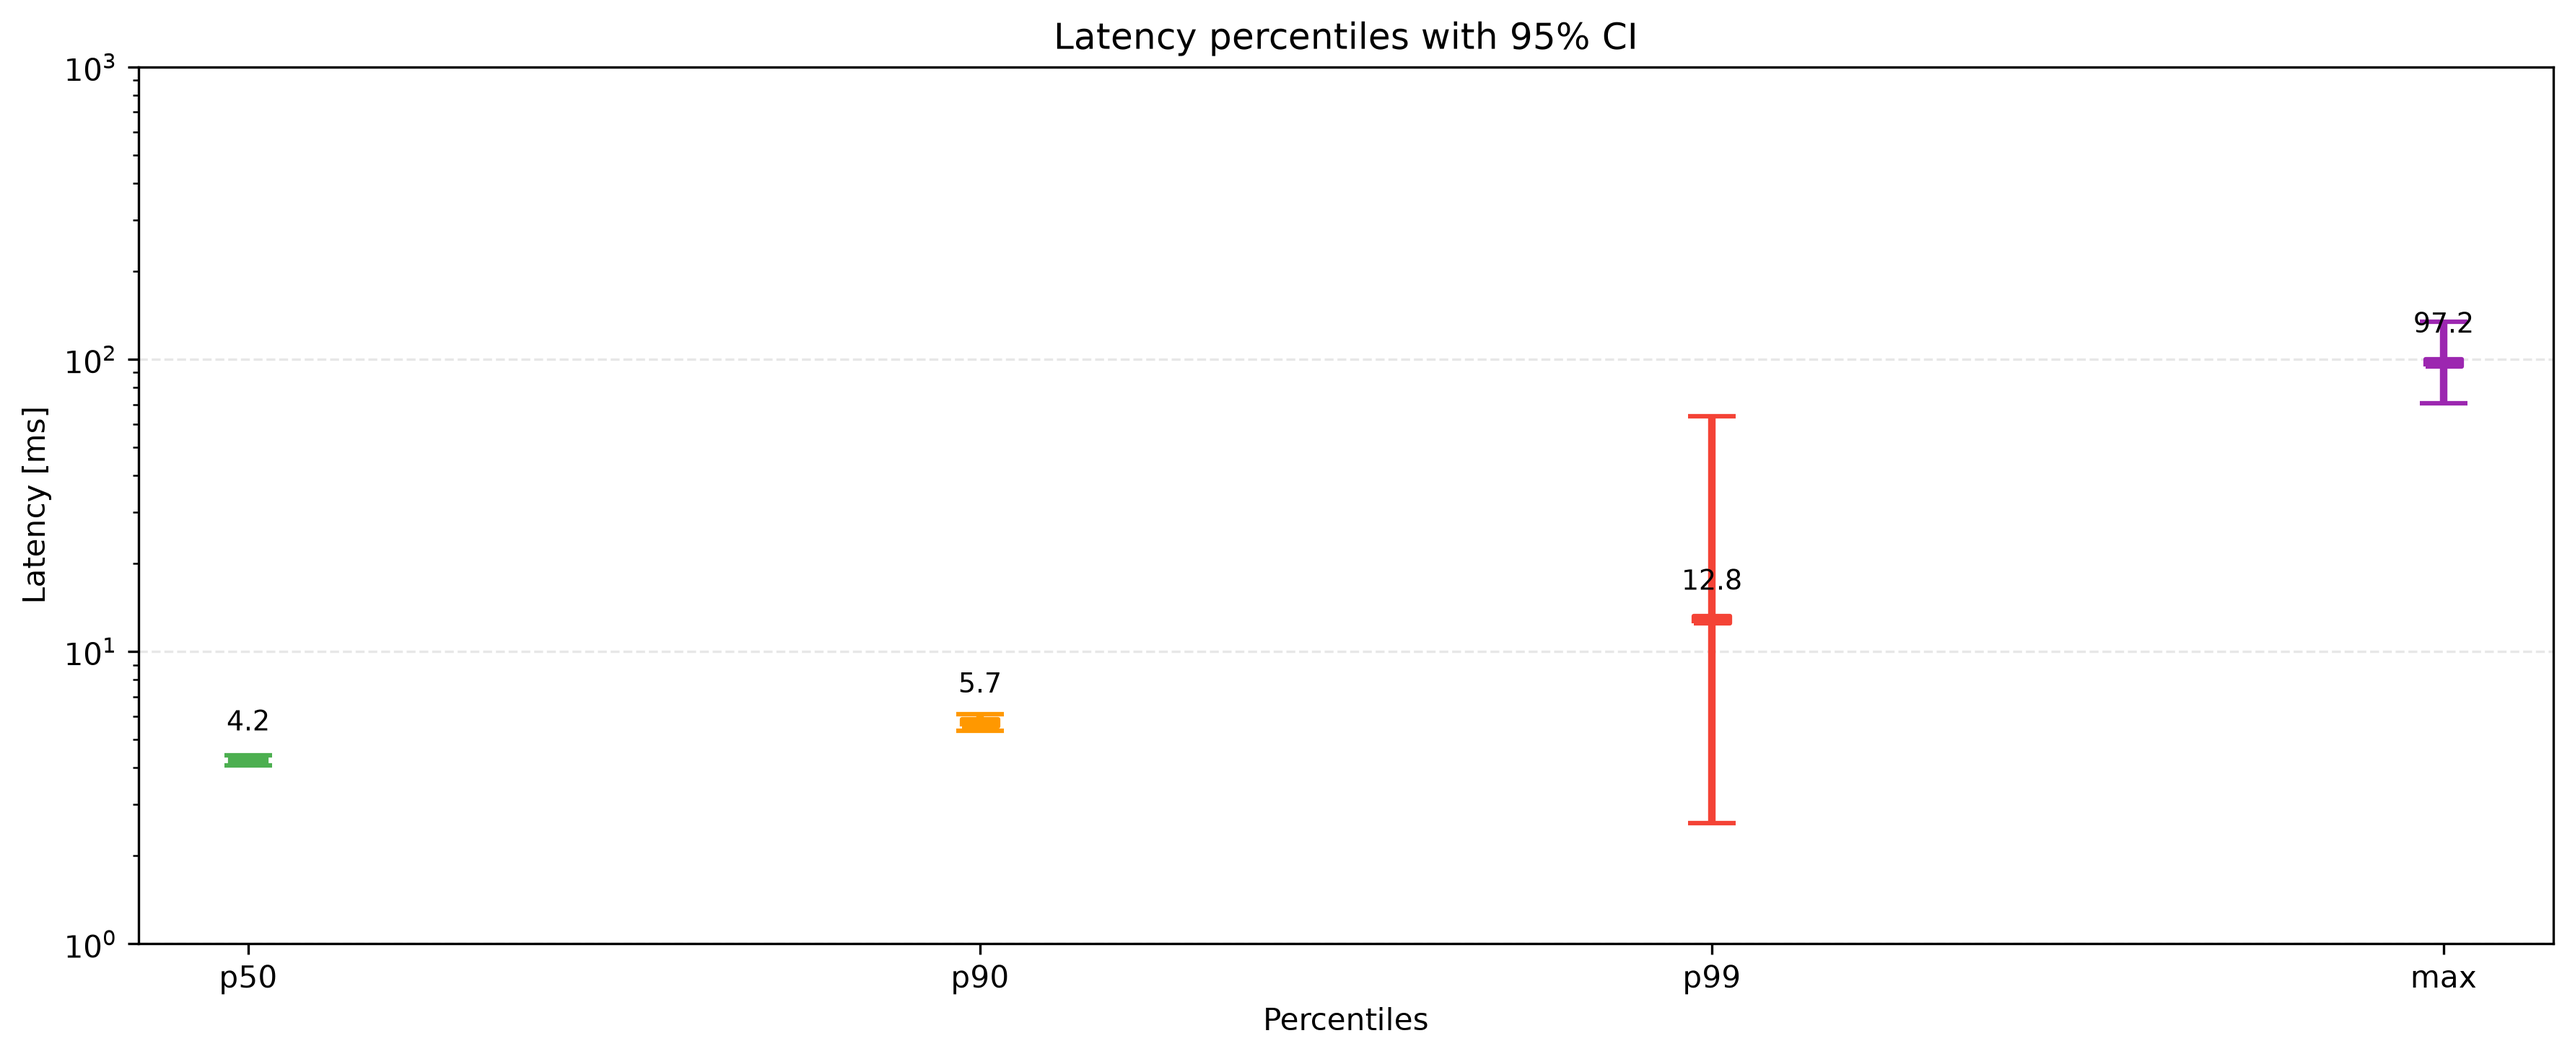
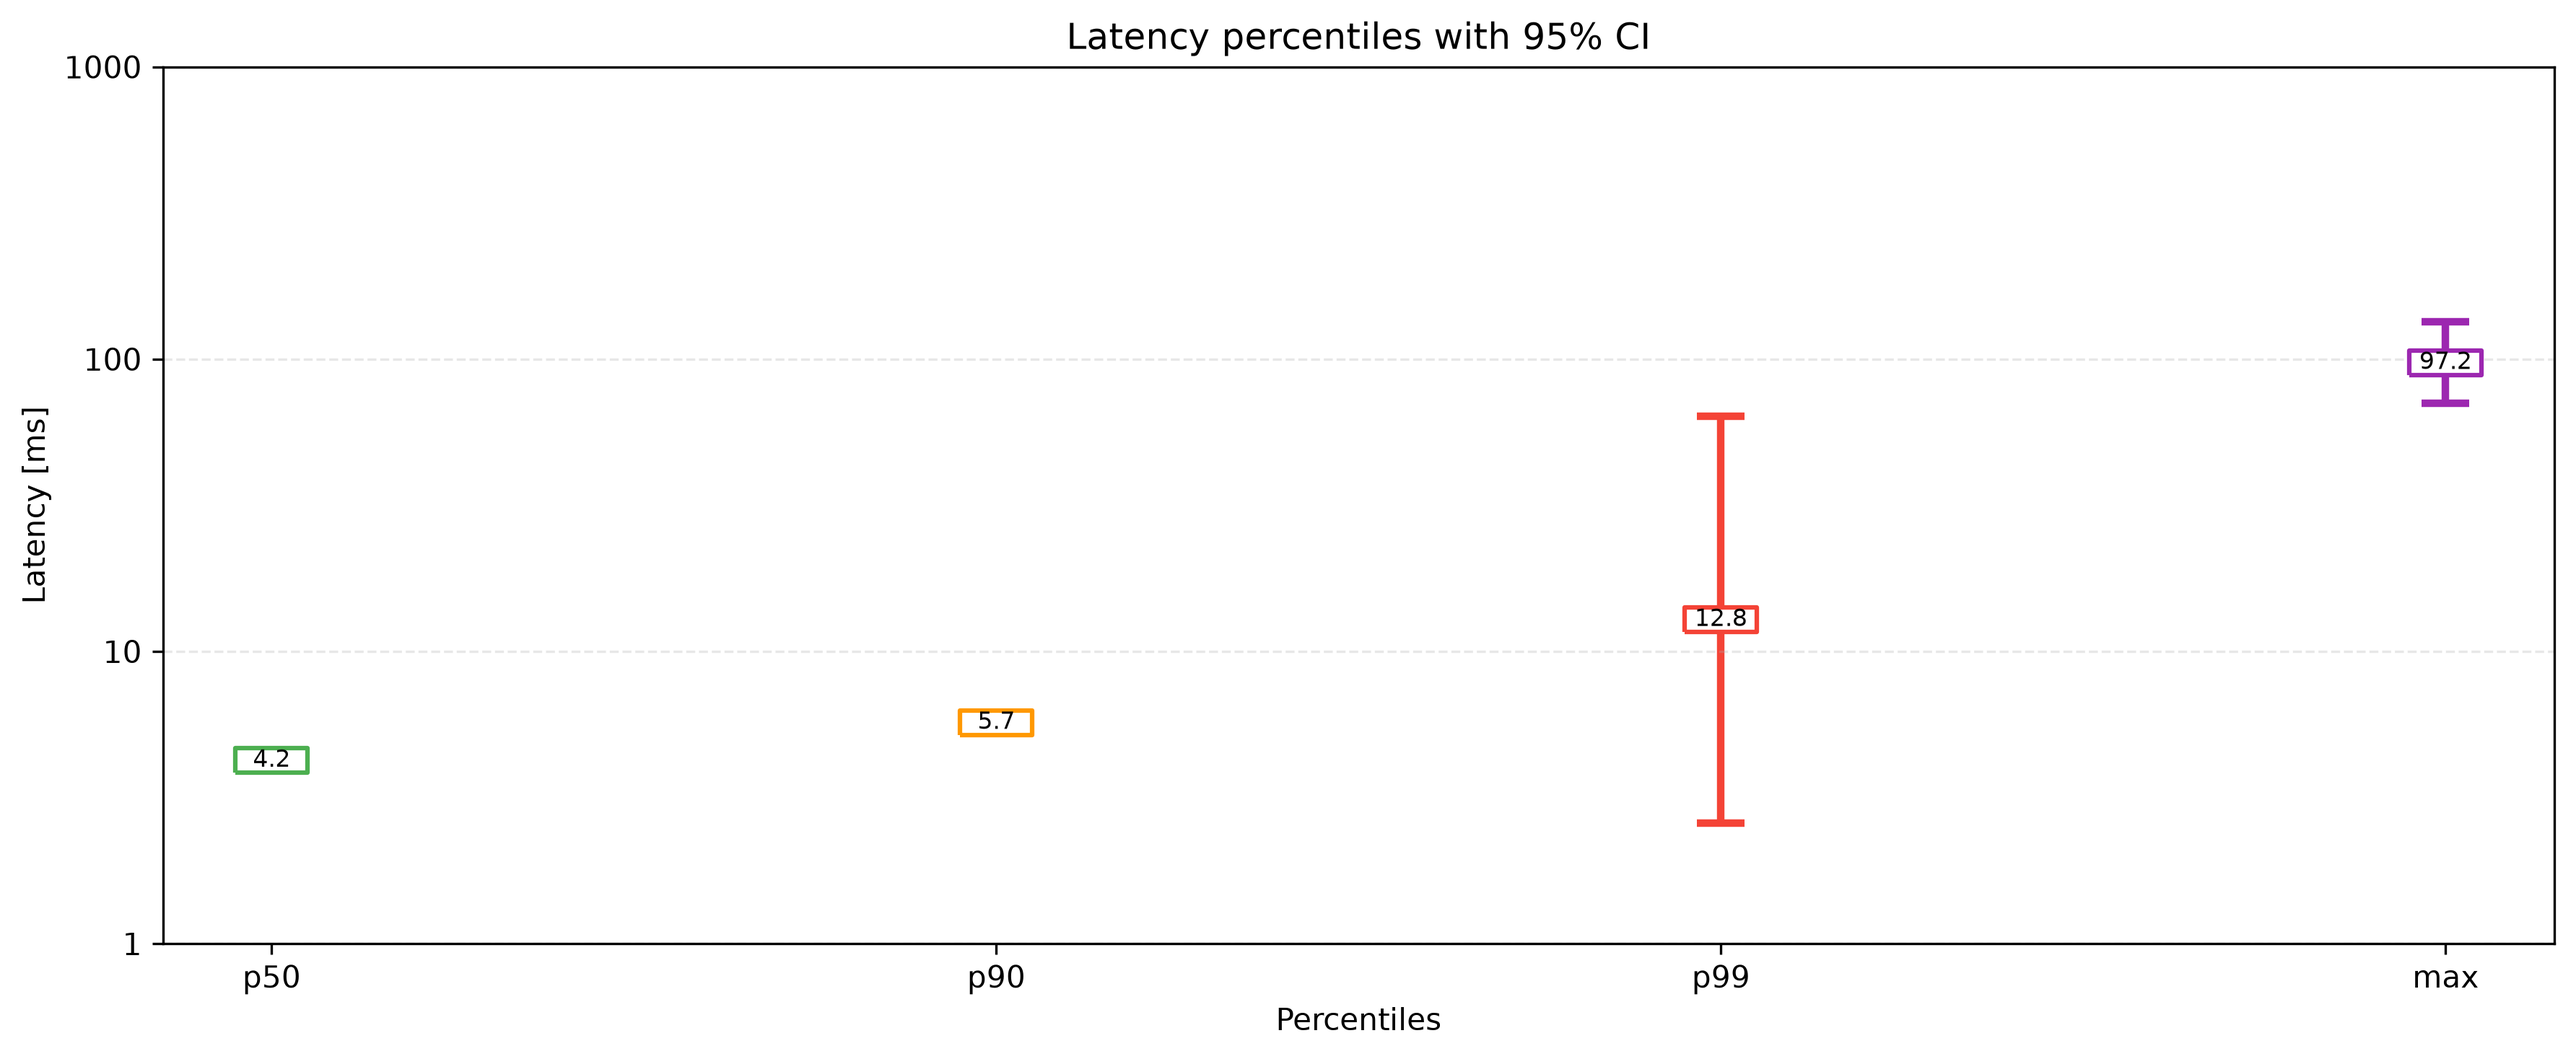
save plot

diff --git a/plot/interval-latency.py b/plot/interval-latency.py
@@ -5,6 +5,7 @@ import os
 import sys
 
 import matplotlib.pyplot as plt  # pyright: ignore[reportMissingImports]
+import matplotlib.ticker as ticker  # pyright: ignore[reportMissingImports]
 from matplotlib.path import Path  # pyright: ignore[reportMissingImports]
 
 sys.path.insert(0, os.path.dirname(__file__))
@@ -45,7 +46,7 @@ def main():
     colors = [GREEN, ORANGE, LIGHT_RED, PURPLE]
 
     rect_marker = Path(
-        [(-0.75, -0.15), (0.75, -0.15), (0.75, 0.15), (-0.75, 0.15), (-0.75, -0.15)]
+        [(-0.9, -0.3), (0.9, -0.3), (0.9, 0.3), (-0.9, 0.3), (-0.9, -0.3)]
     )
 
     means, err_low, err_up = [], [], []
@@ -61,32 +62,49 @@ def main():
     top = 10 ** math.ceil(math.log10(max(m + u for m, u in zip(means, err_up))))
     bot = 10 ** math.floor(math.log10(min(m - l for m, l in zip(means, err_low))))
     ax.set_ylim(bottom=bot, top=top)
+    ax.yaxis.set_major_formatter(ticker.FuncFormatter(lambda v, pos: f"{v:g}"))
+    ax.minorticks_off()
 
-    for label, m, lo_, up, color in zip(labels, means, err_low, err_up, colors):
+    for i, (label, m, lo_, up, color) in enumerate(
+        zip(labels, means, err_low, err_up, colors)
+    ):
+        x = float(i)
         ax.errorbar(
-            label,
+            x,
             m,
             yerr=[[lo_], [up]],
-            fmt="",
-            marker=rect_marker,
-            ms=12,
-            markeredgewidth=1.5,
+            fmt="none",
+            ecolor=color,
+            elinewidth=2.5,
             capsize=8,
             capthick=2.5,
-            elinewidth=2.5,
-            color=color,
+            zorder=1,
         )
-        ax.annotate(
+        ax.plot(
+            [x],
+            [m],
+            marker=rect_marker,
+            ms=24,
+            color="white",
+            markeredgecolor=color,
+            markeredgewidth=1.5,
+            zorder=3,
+        )
+        ax.text(
+            x,
+            m,
             f"{m:.1f}",
-            (label, m),
-            textcoords="offset points",
-            xytext=(0, 10),
             ha="center",
-            fontsize=9,
+            va="center",
+            fontsize=8,
+            color="black",
+            zorder=4,
         )
 
     ax.set_ylabel("Latency [ms]")
     ax.set_xlabel("Percentiles")
+    ax.set_xticks(range(len(labels)))
+    ax.set_xticklabels(labels)
     ax.set_title("Latency percentiles with 95% CI")
     ax.grid(True, axis="y", **grid_style)
     plt.tight_layout()
